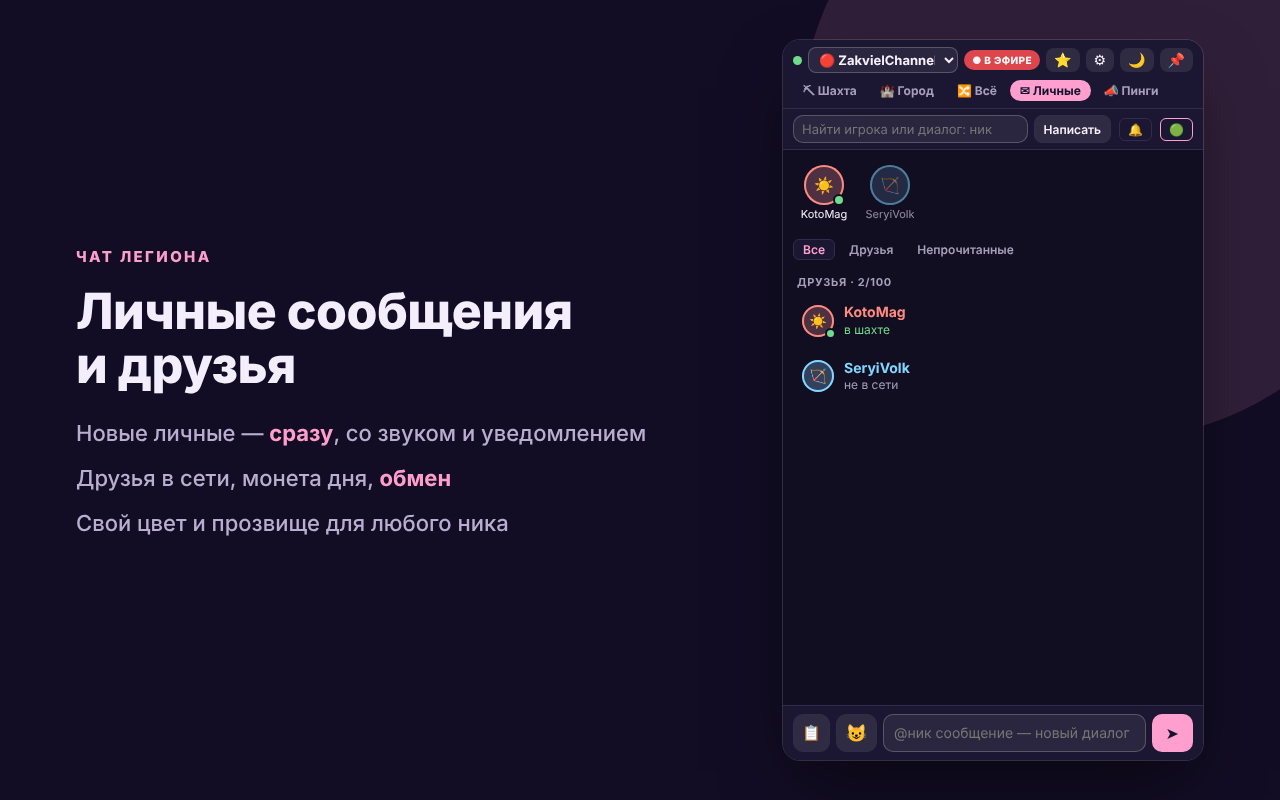
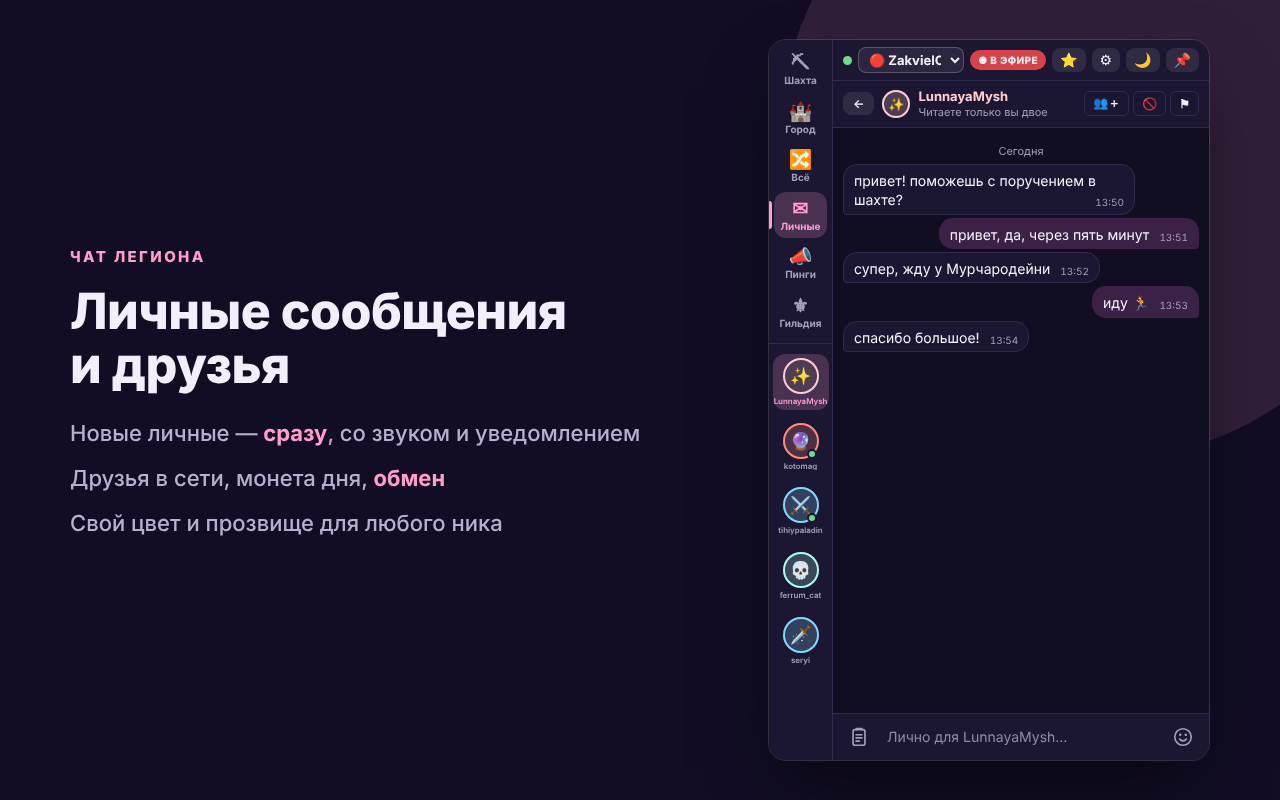
Карточка магазина: новые скриншоты, промо-плитки и описание (3.19)
Claude-Session: https://claude.ai/code/session_017z7PcbTHP4t6d93FSzRGqh

diff --git a/tools/build.py b/tools/build.py
@@ -26,7 +26,7 @@ base = {
     'manifest_version': 3,
     'name': 'Чат Легиона',
     'version': version,
-    'description': 'Чат шахты и города игры «Легион» (play.multidonate.ru): панель в игре, отдельное окно, личные, стикеры 7TV, модерация.',
+    'description': 'Весь чат игры «Легион» в одном окне, как в Telegram: шахта, город, личные, пинги и закрытые гильдии — прямо в игре.',
     'homepage_url': 'https://github.com/frebertor-sudo/legion-chat-window',
     'icons': ICONS,
     'action': {'default_title': 'Открыть чат Легиона', 'default_icon': ICONS},

diff --git a/store/LISTING.md b/store/LISTING.md
@@ -14,24 +14,33 @@
 
 ## Краткое описание (до 132 символов)
 
-Чат шахты и города игры «Легион» (play.multidonate.ru): панель в игре, отдельное окно, личные, стикеры 7TV, модерация.
+Весь чат игры «Легион» в одном окне, как в Telegram: шахта, город, личные, пинги и закрытые гильдии — прямо в игре.
 
 ## Полное описание
 
-Чат шахты и города игры «Легион» (play.multidonate.ru) — прямо в игре или в отдельном окне.
+Весь чат игры «Легион» (play.multidonate.ru) в одном удобном окне — прямо в игре или отдельно.
 
-• Встроен в чат самой игры: кнопки «Чат Легиона» и «⧉» рядом с чатом города и шахты. Панель можно прикрепить слева или справа или сделать плавающим окном — двигать за полоску, менять размер за уголок.
-• Прозрачность: фон панели и весь чат можно сделать полупрозрачными, чтобы не закрывать игру; при наведении чат снова сплошной.
-• Шахта, город и «Всё» — чат шахты, вкладки города (общий, торговля, достижения) и общая лента всего сразу по времени, с фильтрами.
-• Личные сообщения — новые приходят мгновенно (всплывашка, уведомление, звук), список диалогов с непрочитанными, переписка пузырями, черновики, поиск.
-• Друзья — кто в сети, где сейчас и кнопка «туда», монета дня, заявки, блок. Сообщения друзей и модераторов выделены цветом.
-• Поиск игроков по похожему нику: с опечаткой, по части ника, в русской раскладке — и сразу «написать» или «в друзья».
-• Стримеры — переключение между каналами игры, отметка тех, кто в эфире.
-• Стикеры 7TV, BTTV и FFZ канала — картинками в чате и панель выбора с поиском. Пасты — сохранённые сообщения с названиями.
-• Модерация — для админа и модераторов чата: мут, бан, удаление сообщений, список ограничений. Права проверяет сервер игры.
-• Настройки: цветовые схемы, акцент, своя картинка фона, шрифт и размер, подсветка слов, скрытие сообщений, звук, свой CSS. Окно поверх всех программ (Chrome и Edge), светлая и тёмная тема.
+★ Как в Telegram
+• Сбоку колонка: Шахта, Город, Всё, Личные, Пинги, Гильдия — со счётчиками непрочитанного. Под ними последние собеседники: щелчок — и вы в переписке.
+• Колонка встаёт к краю экрана: панель справа — колонка справа, слева — слева. Панель можно сделать плавающим окном, поставить в любой угол и свернуть до одной колонки, чтобы не мешала игре.
+• Плоская строка ввода со значками; ссылки кликабельны.
 
-Расширение пользуется твоим входом на сайте игры и ничего не отправляет разработчику. Настройки и переписка хранятся только в браузере.
+★ Гильдии — закрытый чат для своих
+• Сообщения зашифрованы и подписаны прямо в браузере: читают только участники, подделать чужое сообщение нельзя.
+• Глава зовёт по нику или ссылкой-приглашением, назначает роли (заместитель, казначей…), закрепляет объявление.
+• Сборы и опросы в два клика, реакции 👍 ❤ 😂 🔥, ответы с цитатой, правка и удаление своих сообщений, отметки «прочитано» ✓✓, мини-превью ссылок (картинки, YouTube, Twitch).
+
+★ Общение в игре
+• Шахта, город (общий, торговля, достижения) и общая лента «Всё». Писать в город можно, не заходя в него.
+• Личные приходят мгновенно — всплывашка, звук, уведомление. Друзья в сети, монета дня, обмен.
+• 📣 Пинги — все, кто звал вас по @нику. ⭐ Закладки. Поиск Ctrl+F. «Стример начал эфир».
+• Ответ с цитатой, @ник по Tab, «только его сообщения», игнор, свой цвет и прозвище для любого ника.
+• Стикеры 7TV, BTTV и FFZ канала. Модерация для модераторов чата.
+
+★ Под себя
+Тёмная и светлая тема, цветовые схемы, свой фон, шрифт и размер, прозрачность панели, звук, свой CSS.
+
+Расширение пользуется вашим входом на сайте игры и ничего не отправляет разработчику. Настройки и переписка хранятся только в браузере. Сообщения гильдий идут зашифрованными через сервис ntfy.sh — только если вы пользуетесь гильдиями.
 
 Неофициальное расширение, к разработчикам игры и стримерам отношения не имеет. Исходный код открыт (MIT).
 
